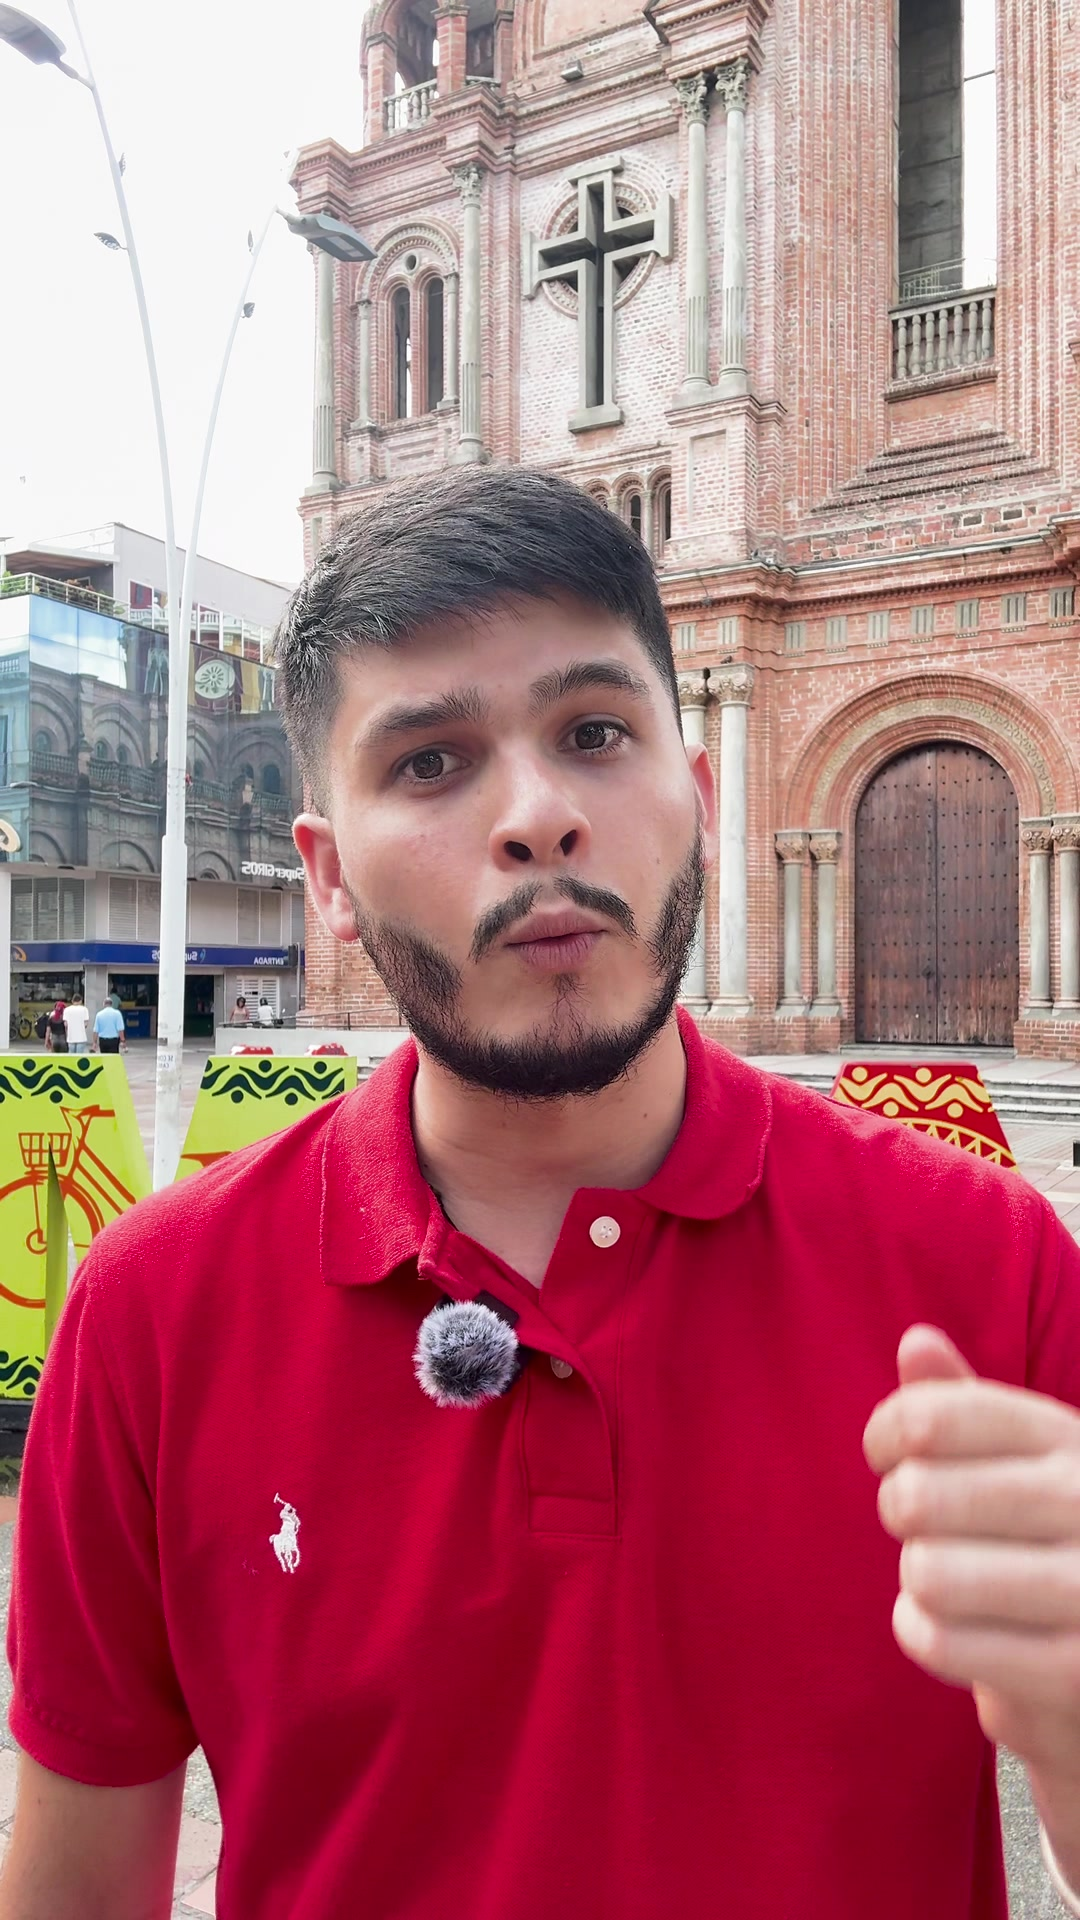
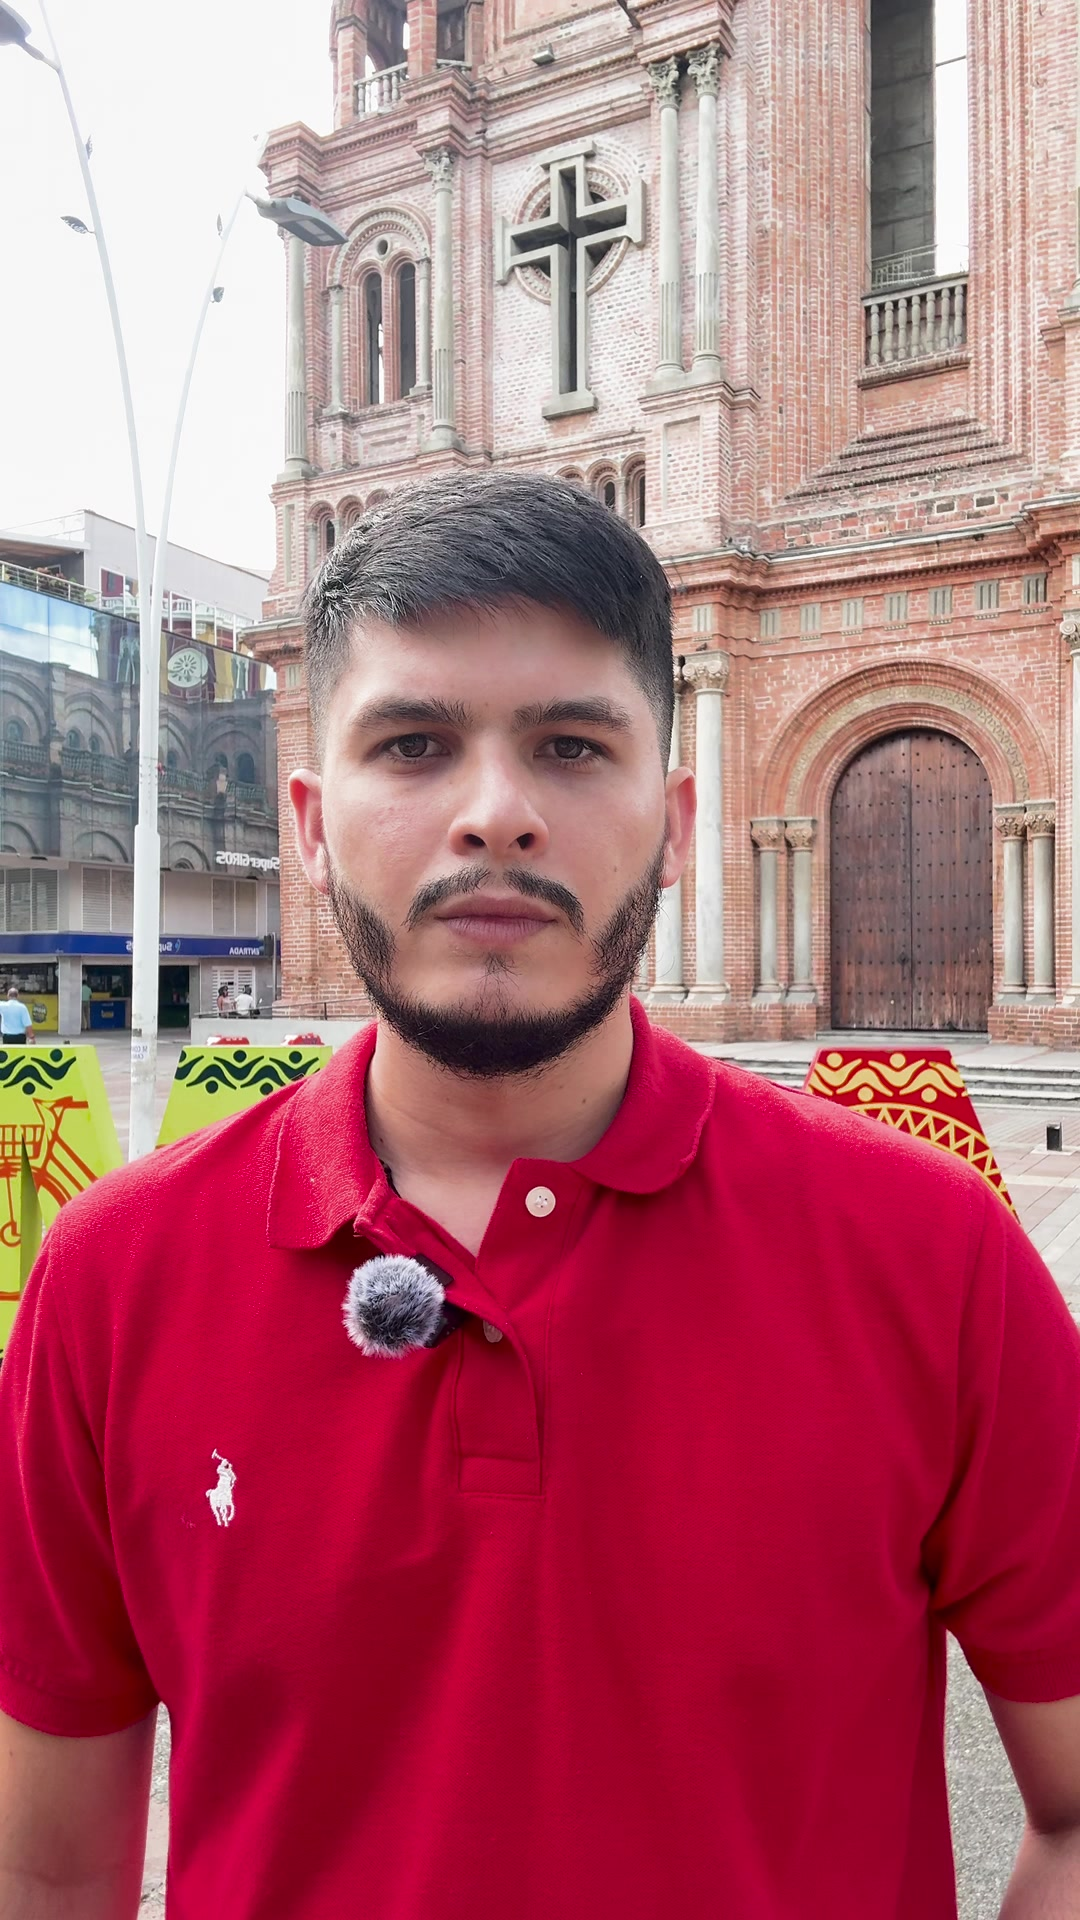
Yellow instead of red for accusation emphasis; cover uses a serious frame
Claude-Session: https://claude.ai/code/session_01P6ScJN2vTZvxzeGsdYGPdQ

diff --git a/src/campaign/Cover.tsx b/src/campaign/Cover.tsx
@@ -3,7 +3,7 @@ import { AbsoluteFill, Img, staticFile } from "remotion";
 import { Anton, Bebas, Montserrat } from "./font";
 
 // Portada 1080x1920. El bloque de texto queda dentro del recorte 4:5 que Instagram
-// muestra en la cuadrícula del perfil (y 285–1635). Fondo: IMG_1713 a los 4.6 s.
+// muestra en la cuadrícula del perfil (y 285–1635). Fondo: IMG_1713 a los 0.5 s (expresión seria, pedido del cliente).
 const YELLOW = "#FFE600";
 const BRAND = ["#F39200", "#1D3E9E", "#E30613", "#0A9A48", "#5B2C8F"];
 const SHADOW = "0 4px 18px rgba(0,0,0,0.6), 0 0 3px rgba(0,0,0,0.6)";

diff --git a/src/campaign/CampaignVideo.tsx b/src/campaign/CampaignVideo.tsx
@@ -391,7 +391,12 @@ const EmphasisView: React.FC<{ e: Emph }> = ({ e }) => {
               style={{
                 ...base,
                 ...size,
-                color: l.color === "red" ? RED : "white",
+                color:
+                  l.color === "yellow"
+                    ? YELLOW
+                    : l.color === "red"
+                      ? RED
+                      : "white",
                 textShadow: SHADOW,
                 opacity: k,
                 filter: `blur(${(1 - k) * 12}px)`,

diff --git a/estilo.md b/estilo.md
@@ -56,6 +56,12 @@ Formato: 1080x1920, 60 fps, H.264 CRF 14, AAC 320 kbps.
 - **Música de suspenso** (`scripts/make_music.py` v4) con **muestras reales** de violín, chelo, contrabajo y piano (tonejs-instruments, CC-BY 3.0, ver `CREDITOS.md`): Re menor, 96 bpm, Rem–Sib–Solm–La, reverb de sala 2.2 s, **−30 LUFS** (~14 dB bajo la voz). Vigilante: ostinato de chelo + violín agudo. Base: chelo suave + piano. Dilian/1710: clímax con violines y chelo en octavas. IMG_1713: violín y piano. Cierre: Re mayor. (Las versiones 1–3, sintetizadas, fueron rechazadas.)
 - **Clic** (`scripts/make_sfx.py`): "tic" único de ~10 ms, pico 2.1 kHz, centroide 2.7 kHz (medido en la referencia de Duvalier), volumen 0.55, uno por cada línea de la tipografía cinética.
 
+## Énfasis en color
+- Las palabras de acusación ("CON SU PLATA", "MAYORES ALIADAS") van en **amarillo `#FFE600`** (antes rojo; pedido del cliente).
+
+## Portada
+- `npm run render:portada` → `out/portada.png` (1080x1920): IMG_1713 a 0.5 s (expresión seria), "Concejal, / HACER CONTROL POLÍTICO / NO ES UN SHOW" (Montserrat 600/900 + Bebas Neue amarillo) y la firma, dentro del recorte 4:5.
+
 ## Subtítulo base (actual)
 - Montserrat 600, **64 px**, blanco, sin caja, sombra suave, ancho máx. 940 px, **borde superior a y = 1160 px** (el cliente los pidió más grandes y más arriba). Frases de máx. 6 palabras / 30 caracteres.
 
